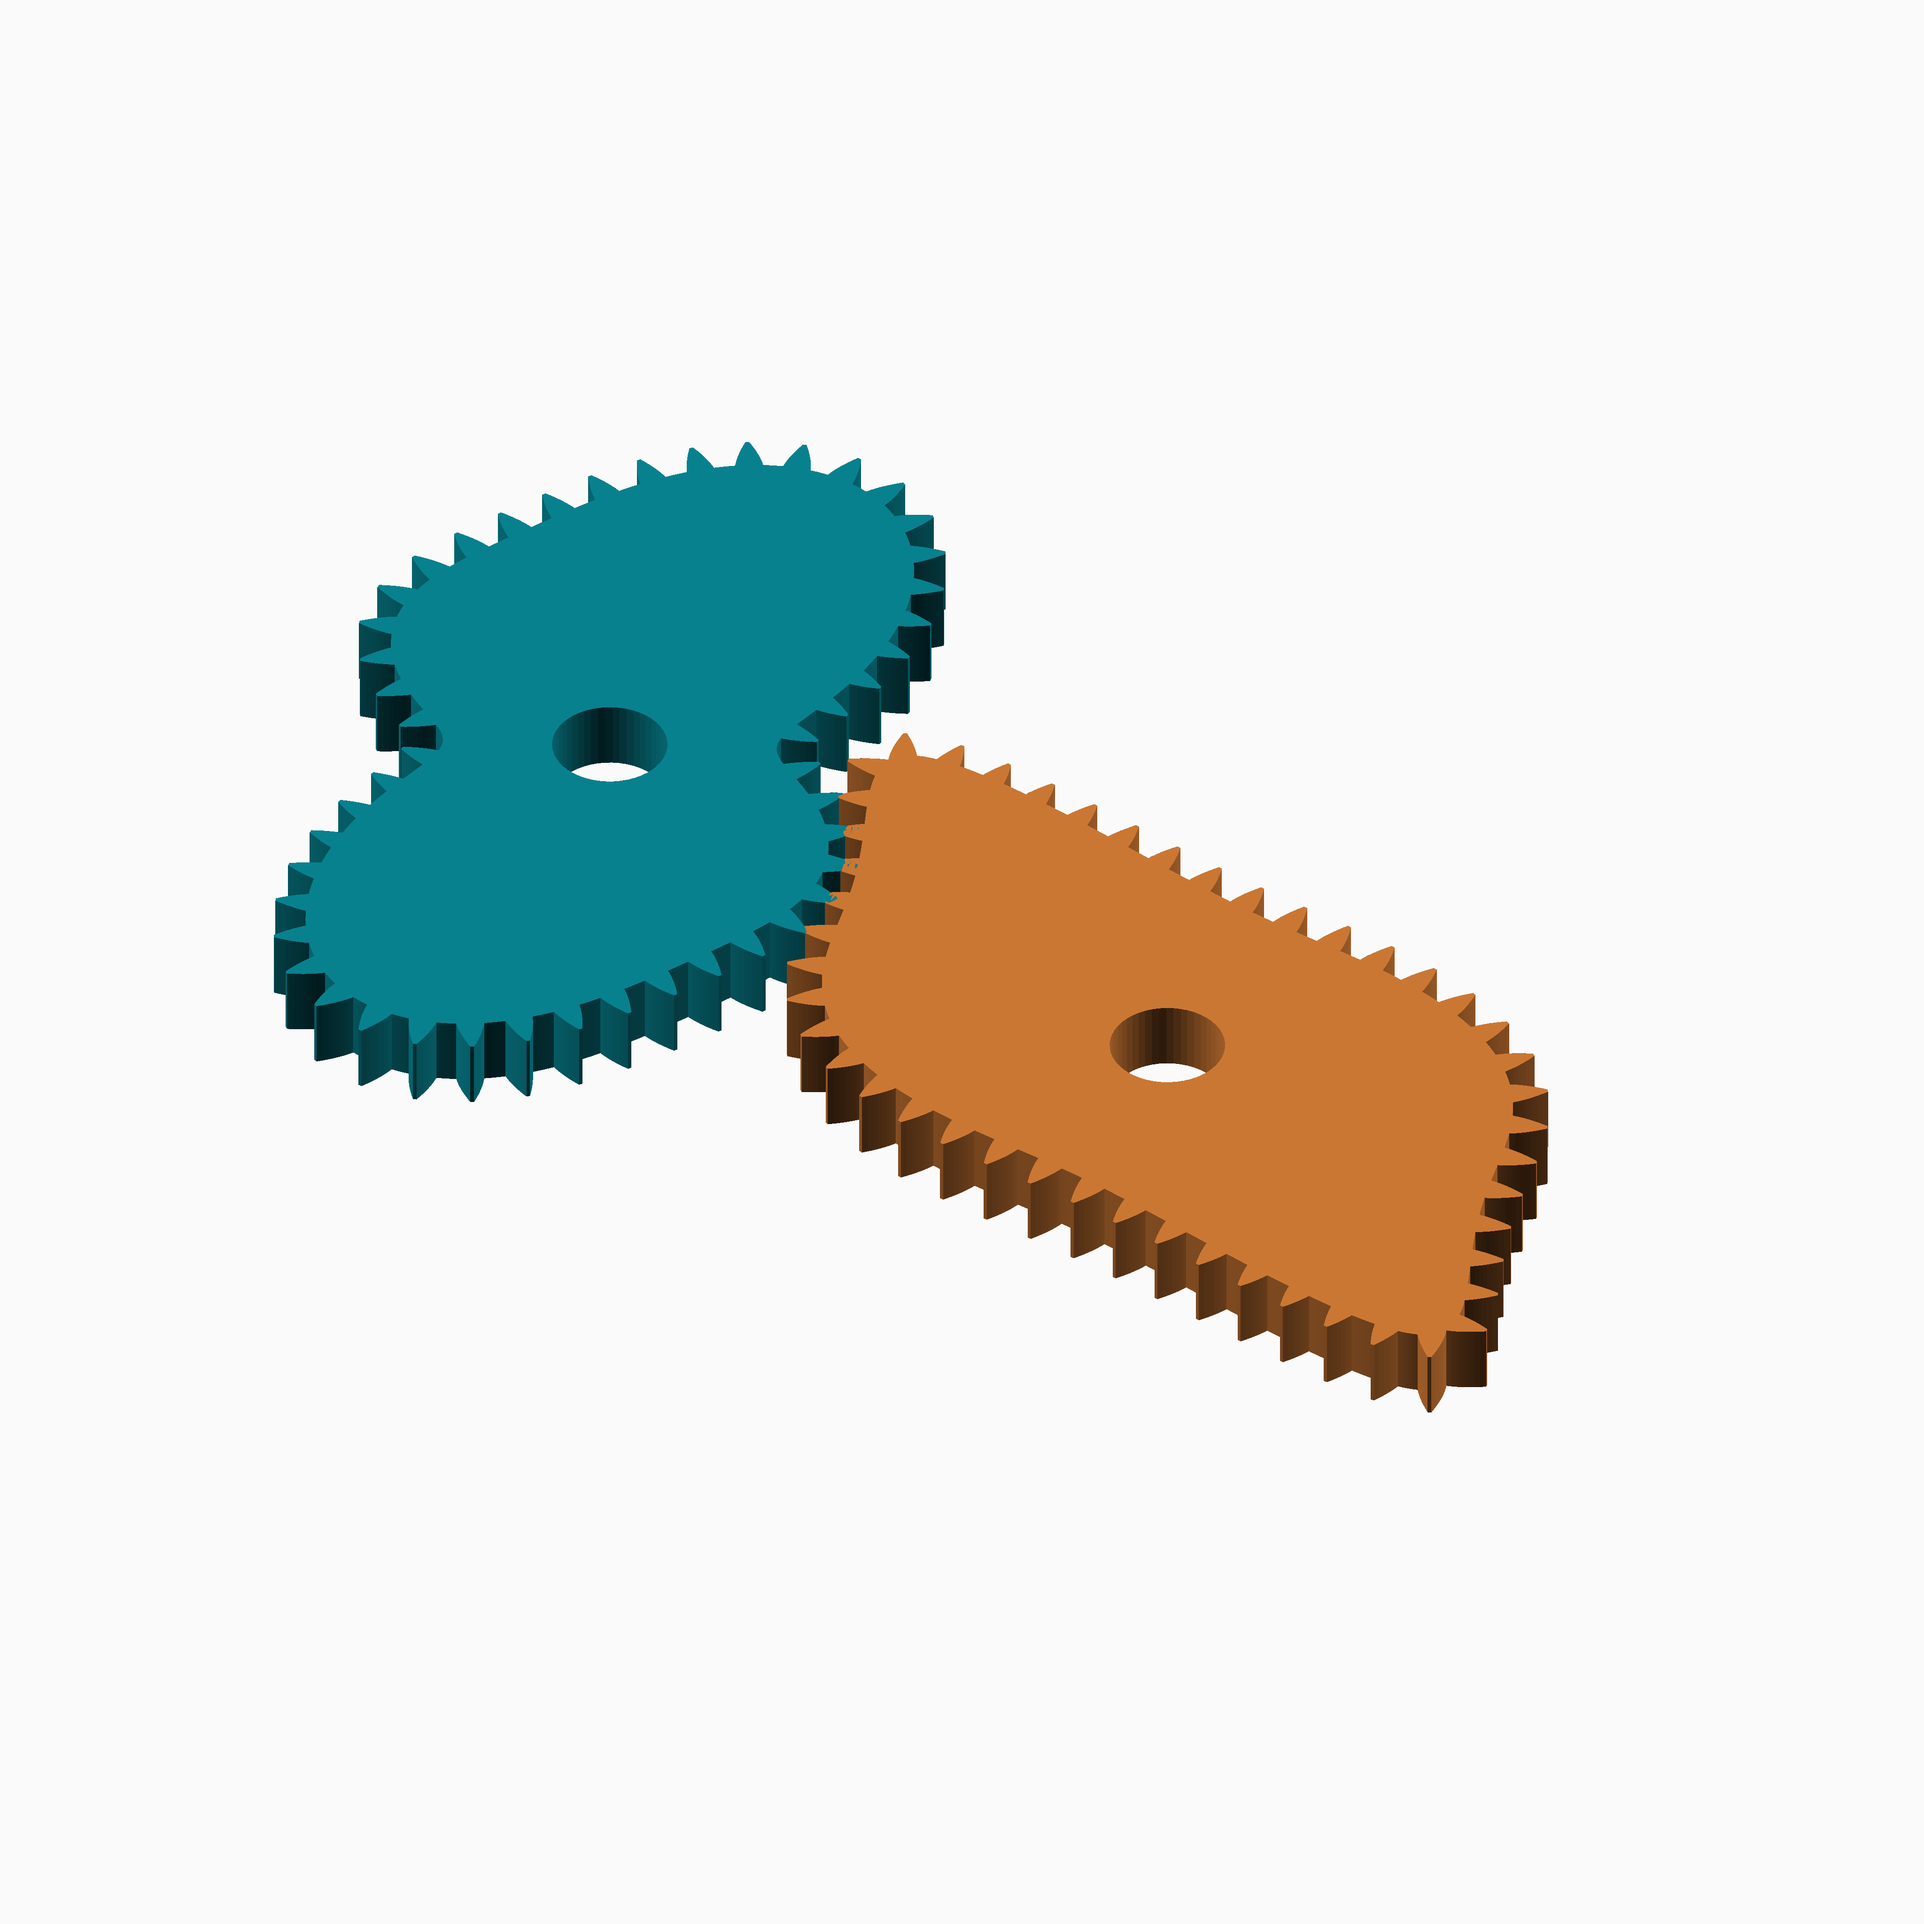
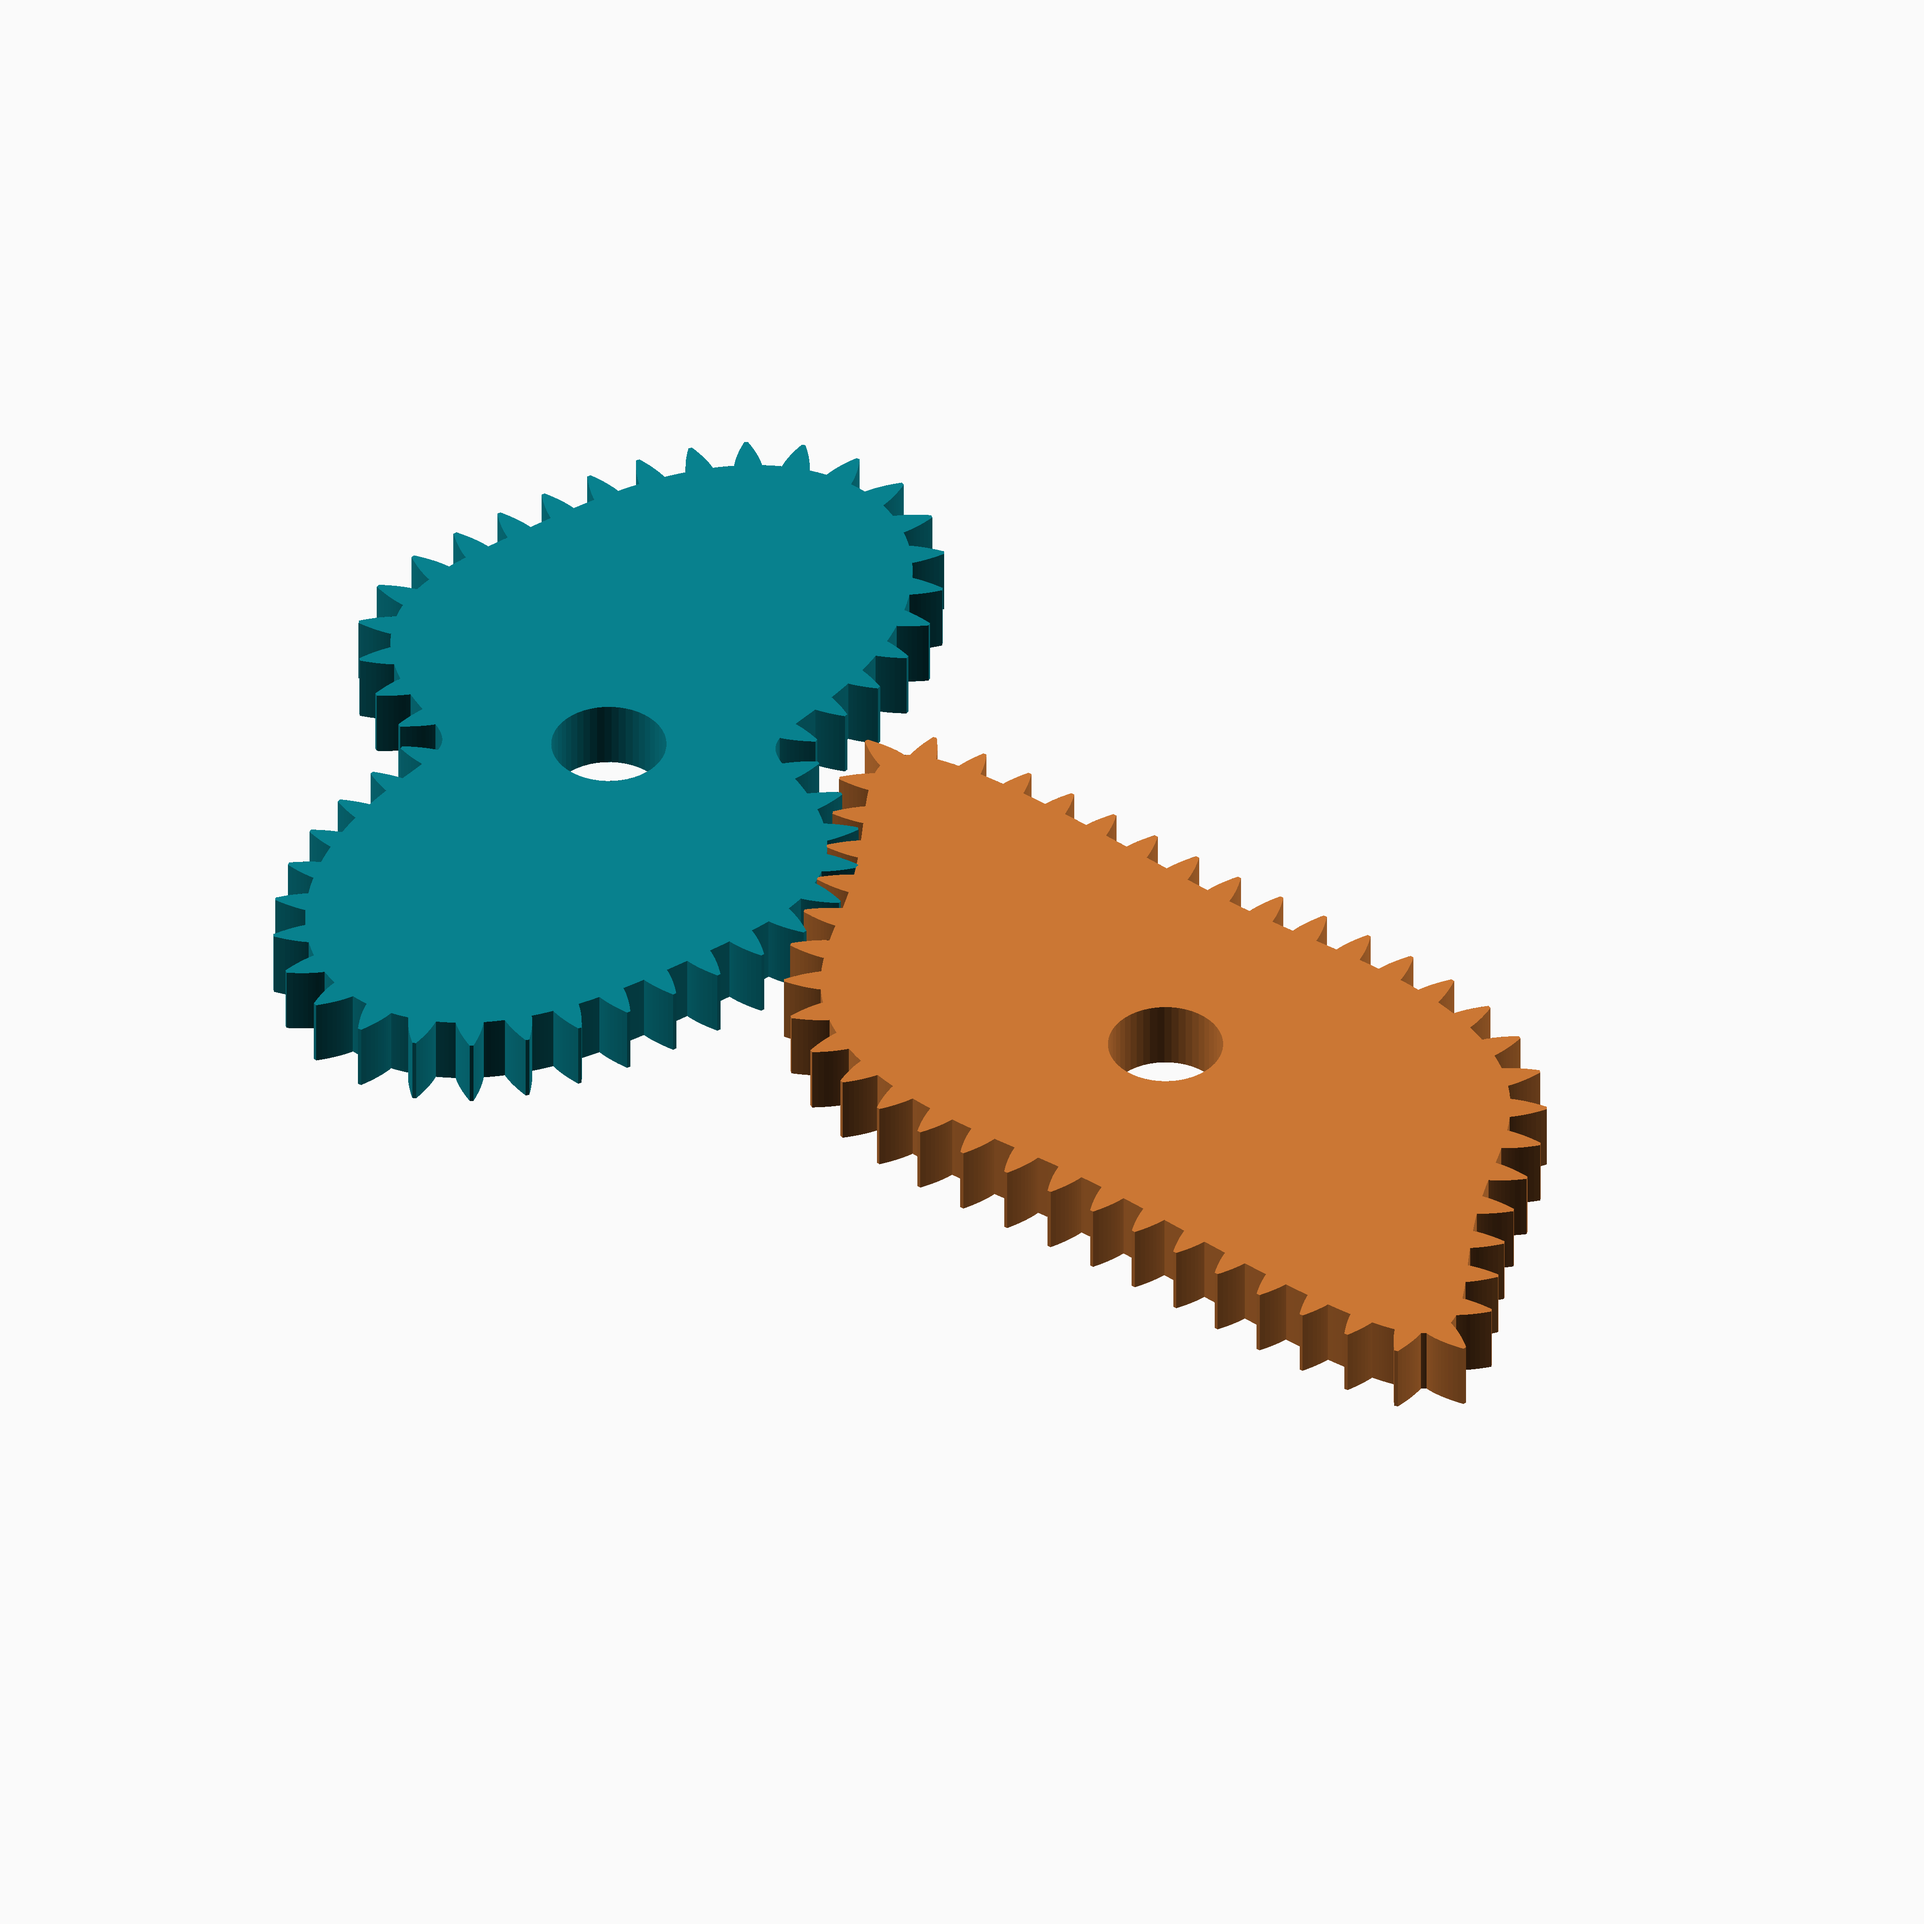
Fix Temple Fay mate tooth phase

diff --git a/docs/pair-assembly.md b/docs/pair-assembly.md
@@ -83,6 +83,7 @@ Prepare once, validate once, and render both pair gears from shared states.
 - `driver_color`: {OpenSCAD colour, default SteelBlue} Driver colour.
 - `mate_color`: {OpenSCAD colour, default Gold} Mate colour.
 - `mate_root_support`: {number >= 0, default 0.25} Inward mate-candidate support in modules.
+- `mate_tooth_phase`: {angle or undef} Mate tooth-placement phase; defaults to the driver phase.
 
 **Returns:**
 
@@ -141,6 +142,7 @@ Prepare and assemble a named shape's driver and conjugate mate once.
 - `backlash`: {undef or >= 0} Tangential thickness reduction.
 - `clearance`: {undef or >= 0} Extra root clearance.
 - `tooth_phase`: {angle, default 0} Tooth placement phase.
+- `mate_tooth_phase`: {angle or undef} Mate tooth-placement phase, defaulting to the driver phase.
 - `driver_color`: {colour, default SteelBlue} Driver display colour.
 - `mate_color`: {colour, default Gold} Mate display colour.
 

diff --git a/docs/temple_fay.md b/docs/temple_fay.md
@@ -262,9 +262,10 @@ Back to [module description](#module-temple-fay).
 - `together_built`: {boolean, default false} Use meshed placement when true, separated display placement otherwise.
 - `backlash`: {number, default undef} Backlash.
 - `clearance`: {number, default undef} Clearance.
-- `tooth_phase`: {number, default 0} Tooth phase.
+- `tooth_phase`: {number, default 0} Driver tooth-placement phase.
 - `driver_color`: {string, default "SteelBlue"} Driver colour.
 - `mate_color`: {string, default "Gold"} Mate colour.
+- `mate_tooth_phase_offset`: {number, default 0} Additional mate tooth-placement phase; 180 degrees is half a tooth.
 
 **Returns:**
 
